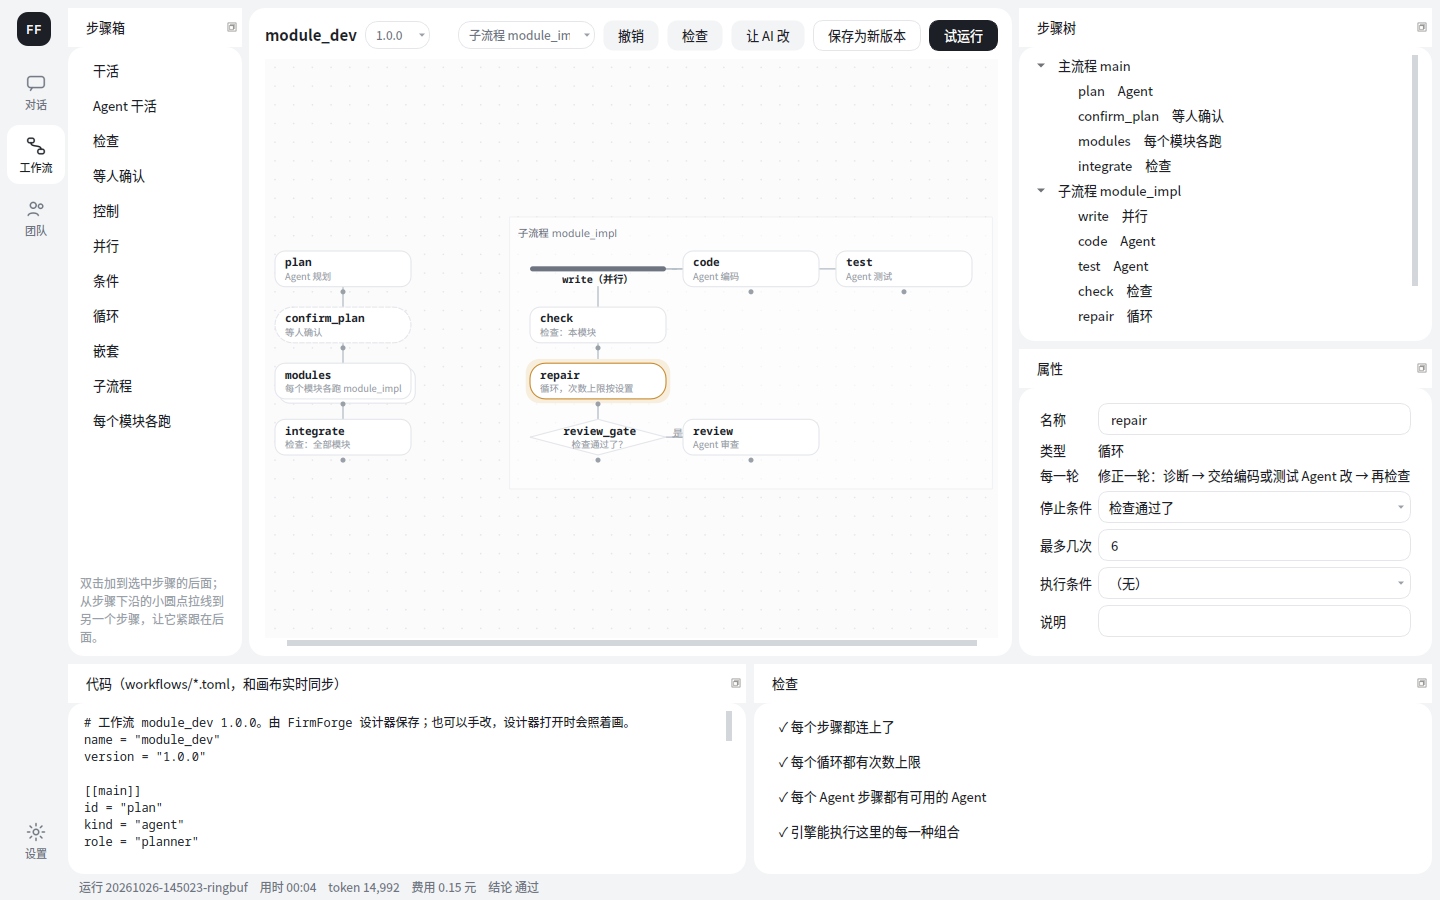
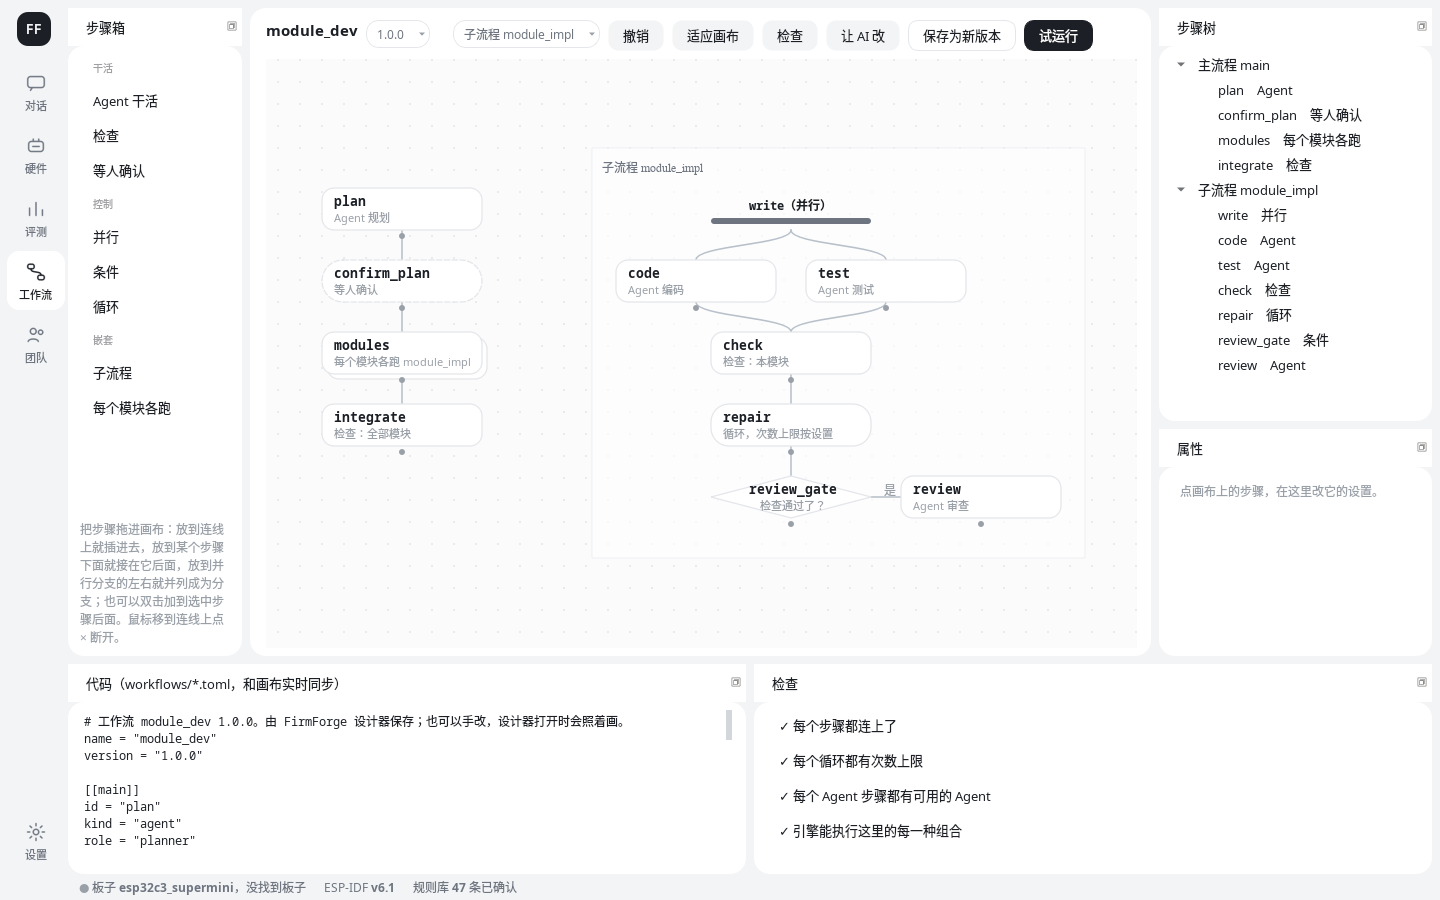
设计器：并行画成"分叉再汇合"，分支在并行下面并排
- 流程图排布：并行的分支排在下一行、以并行为中线并排，再汇合到下一步（主流流程图的画法）；条件的分支仍在右侧
- 分支 → 下一步画汇合线；拖到汇合线上 = 并行做完以后的下一步；汇合线不能单独断开
- 拖到分支步骤的左右两边 = 并列成为分支
- 并行的名字放在横条上方，分叉线不再压字；子流程框按实际宽度排在主流程右边
- 更新排布和拖拽的测试，更新设计器截图

diff --git a/src/firmforge/gui/graph.py b/src/firmforge/gui/graph.py
@@ -305,7 +305,7 @@ class StepItem(QGraphicsObject):
         elif s.kind == "parallel":
             p.setPen(Qt.NoPen)
             p.setBrush(QColor(c["fail"] if s.detached else c["ink2"]))
-            p.drawRoundedRect(QRectF(0, STEP_H / 2 - 3, STEP_W, 6), 3, 3)
+            p.drawRoundedRect(QRectF(0, STEP_H - 12, STEP_W, 6), 3, 3)     # 横条在下、名字在上：分叉线从横条下面出去，不压字
         else:
             if s.kind == "foreach":
                 p.drawRoundedRect(QRectF(5, 5, STEP_W, STEP_H), radius, radius)
@@ -314,7 +314,7 @@ class StepItem(QGraphicsObject):
         p.setPen(QColor(c["ink"]))
         if s.kind == "parallel":
             p.setFont(_mono(9, True))
-            p.drawText(QRectF(0, STEP_H / 2 + 4, STEP_W, 16), Qt.AlignCenter, f"{s.id}（并行）" + ("，没连上" if s.detached else ""))
+            p.drawText(QRectF(0, 8, STEP_W, 18), Qt.AlignCenter, f"{s.id}（并行）" + ("，没连上" if s.detached else ""))
             return
         p.setFont(_mono(9.5, True))
         p.drawText(QRectF(12, 3, STEP_W - 20, 20), Qt.AlignLeft | Qt.AlignVCenter if s.kind != "condition" else Qt.AlignCenter, s.id)
@@ -373,6 +373,8 @@ class EdgeItem(QGraphicsPathItem):
     def __init__(self, a: str, b: str, path: QPainterPath, canvas: "FlowCanvas", deletable: bool):
         super().__init__(path)
         self.a, self.b, self.canvas, self.deletable = a, b, canvas, deletable
+        self.branch = False                 # 并行、条件到分支的线：可以断开，不能把步骤插进去
+        self.logical = (a, b)               # 汇合线（分支 → 下一步）画的是分支到下一步，含义是"并行 → 下一步"
         self.hot = False
         self.setAcceptHoverEvents(deletable)
         self._style()
@@ -459,29 +461,36 @@ class FlowCanvas(DotGridView):
         self.flow_of.clear()
         self.regions.clear()
         c = T()
-        groups = [("main", list(wf.main), 0.0)]
+        groups = [("main", list(wf.main))]
         sub = subflow or next(iter(wf.subflows), None)
         if sub:
-            groups.append((sub, list(wf.subflows[sub]), 300.0))
-        for name, steps, x0 in groups:
+            groups.append((sub, list(wf.subflows[sub])))
+        right = 0.0                                            # 已经画好的流程的右边界，下一个流程排在它右边
+        for name, steps in groups:
             linked = [s for s in steps if not s.detached]
-            pos = flow_positions(linked, x0=x0, y0=40)
+            kw = dict(y0=40, w=STEP_W, h=STEP_H, gap=30)
+            x0 = 0.0
+            if name != "main":                                 # 先排一遍量出左边界，再整体挪到主流程右边
+                draft = flow_positions(linked, x0=0.0, **kw)
+                x0 = right + 110 - min([p[0] for p in draft.values()] or [0.0])
+            pos = flow_positions(linked, x0=x0, **kw)
+            ys = [p[1] for p in pos.values()] or [40]
+            xs = [p[0] for p in pos.values()] or [x0]
+            frame = QRectF(min(xs) - 24, 0, max(xs) - min(xs) + STEP_W + 48, max(ys) + STEP_H + 40)
+            right = max(right, frame.right())
+            self.regions.append((name, frame))
             n = 0
             for s in steps:
                 if s.detached:                                 # 没给位置就放到流程旁边（主流程左边、子流程右边）
-                    pos[s.id] = s.pos or ((-STEP_W - 80 if name == "main" else x0 + 2 * STEP_W + 120), 40 + 64 * n)
+                    pos[s.id] = s.pos or ((-STEP_W - 80 if name == "main" else frame.right() + 40), 40 + 64 * n)
                     n += 1
-            ys = [p[1] for p in pos.values()] or [40]
-            xs = [p[0] for p in pos.values()] or [x0]
-            frame = QRectF(x0 - 24, 0, max(xs) - x0 + STEP_W + 48, max(ys) + STEP_H + 40)
-            self.regions.append((name, frame))
             if name != "main":
                 box = sc.addRect(frame, QPen(QColor(c["line"]), 1), QBrush(QColor(c["surface"])))
                 box.setOpacity(0.6)
                 box.setZValue(-2)
                 t = sc.addText(f"子流程 {name}")
                 t.setDefaultTextColor(QColor(c["ink2"]))
-                t.setPos(x0 - 18, 6)
+                t.setPos(frame.left() + 6, 6)
             prev = None
             refd = {r for s in linked for r in (*s.branches, *s.then, *s.otherwise)}
             for s in steps:
@@ -495,11 +504,17 @@ class FlowCanvas(DotGridView):
                 sc.addItem(it)
                 self.items_by_id[s.id] = it
                 self.flow_of[s.id] = name
+            by_id = {s.id: s for s in linked}
             for s in linked:
                 if s.id in refd:
                     continue
                 if prev is not None:
-                    self._edge(prev, s.id)
+                    forks = [k for k in by_id[prev].branches if k in self.items_by_id]
+                    if forks:                                  # 上一步是并行：各分支汇合到这一步
+                        for k in forks:
+                            self._edge(k, s.id, join=(prev, s.id))
+                    else:
+                        self._edge(prev, s.id)
                 for k in (*s.branches, *s.then, *s.otherwise):
                     self._edge(s.id, k, label="是" if k in s.then else ("否" if k in s.otherwise else ""), branch=True)
                 prev = s.id
@@ -522,12 +537,15 @@ class FlowCanvas(DotGridView):
             return path
         return curve(pa, pb)
 
-    def _edge(self, a: str, b: str, label: str = "", branch: bool = False) -> None:
+    def _edge(self, a: str, b: str, label: str = "", branch: bool = False, join: tuple[str, str] | None = None) -> None:
         ia, ib = self.items_by_id.get(a), self.items_by_id.get(b)
         if ia is None or ib is None:
             return
-        item = EdgeItem(a, b, self._edge_path(ia, ib), self, self.editable)
-        item.branch = branch                    # 并行、条件的分支线：可以断开，但不能把步骤插进去
+        # 汇合线不能单独断开（它不是一条独立的连接，断开分支要点"并行 → 分支"那条线）
+        item = EdgeItem(a, b, self._edge_path(ia, ib), self, self.editable and join is None)
+        item.branch = branch
+        if join is not None:
+            item.logical = join
         item.setZValue(-1)
         self.scene().addItem(item)
         self.edges.append(item)
@@ -543,8 +561,8 @@ class FlowCanvas(DotGridView):
         """可以吸附的地方：同一个流程里已连上的步骤（接到它后面）和顺序连线（插进去）。"""
         steps = {sid: (it.pos().x(), it.pos().y()) for sid, it in self.items_by_id.items()
                  if not it.step.detached and (flow is None or self.flow_of[sid] == flow) and sid != exclude}
-        edges = [(e.a, e.b, (e.mid().x(), e.mid().y())) for e in self.edges
-                 if not e.branch and e.a in steps and e.b in steps and exclude not in (e.a, e.b)]
+        edges = [(*e.logical, (e.mid().x(), e.mid().y())) for e in self.edges
+                 if not e.branch and e.a in steps and e.b in steps and exclude not in (e.a, e.b, *e.logical)]
         self._branch_of = {r: sid for sid in steps for r in (*self.items_by_id[sid].step.branches,
                                                               *self.items_by_id[sid].step.then,
                                                               *self.items_by_id[sid].step.otherwise) if r in steps}
@@ -577,9 +595,10 @@ class FlowCanvas(DotGridView):
         kind, a, b = target
         anchor = self.items_by_id[b if kind == "branch" else a]
         side = kind == "branch" or anchor.step.kind in ("parallel", "condition")
-        if side and top.y() < anchor.pos().y() + STEP_H:          # 并列：从旁边那一步的右侧连过来
-            start = anchor.pos() + QPointF(STEP_W, STEP_H / 2)
-            end = top + QPointF(-STEP_W / 2, STEP_H / 2)
+        if side and top.y() < anchor.pos().y() + STEP_H:          # 并列：从旁边那一步的侧面连过来
+            left = top.x() < anchor.pos().x() + STEP_W / 2
+            start = anchor.pos() + QPointF(0 if left else STEP_W, STEP_H / 2)
+            end = top + QPointF(STEP_W / 2 if left else -STEP_W / 2, STEP_H / 2)
             path = QPainterPath(start)
             path.cubicTo(QPointF(start.x() + 20, start.y()), QPointF(end.x() - 20, end.y()), end)
         else:
@@ -591,7 +610,7 @@ class FlowCanvas(DotGridView):
         self._preview.setZValue(5)
         if kind == "edge":
             for e in self.edges:
-                if (e.a, e.b) == (a, b):
+                if e.logical == (a, b) and not e.branch:
                     e.hot = True
                     e._style()
                     e.update()

diff --git a/src/firmforge/gui/layout.py b/src/firmforge/gui/layout.py
@@ -195,7 +195,9 @@ class RunView:
 
 def flow_positions(steps: list, *, x0: float = 0, y0: float = 0, w: float = 150, h: float = 40,
                    gap: float = 26) -> dict[str, tuple[float, float]]:
-    """流程图：顶层步骤从上到下排一列；并行分支、条件的"是 / 否"分支排在右侧同一行。用户拖过的位置（pos）优先。"""
+    """流程图：顶层步骤从上到下排一列。
+    并行画成"分叉再汇合"（主流流程图的画法）：各分支在并行的下一行并排、整体居中，下一步再排在分支下面；
+    条件的"是 / 否"分支排在右侧同一行，主干继续往下。用户拖过的位置（pos）优先。"""
     pos: dict[str, tuple[float, float]] = {}
     referenced = {r for s in steps for r in (*s.branches, *s.then, *s.otherwise)}
     by_id = {s.id: s for s in steps}
@@ -205,12 +207,17 @@ def flow_positions(steps: list, *, x0: float = 0, y0: float = 0, w: float = 150,
             continue
         pos[s.id] = s.pos or (x0, y)
         y = pos[s.id][1] + h + gap
-        kids = list(s.branches) or [*s.then, *s.otherwise]
-        if kids:
-            for i, k in enumerate(kids):
-                ks = by_id.get(k)
-                if ks is not None:
-                    pos[k] = ks.pos or (x0 + (i + 1) * (w + 30), pos[s.id][1])
+        px, py = pos[s.id]
+        forks = [k for k in s.branches if k in by_id]
+        if forks:                                 # 并行：分支在下一行并排，以并行为中线
+            total = len(forks) * w + (len(forks) - 1) * 30
+            left = px + w / 2 - total / 2
+            for i, k in enumerate(forks):
+                pos[k] = by_id[k].pos or (left + i * (w + 30), y)
+            y += h + gap
+        for i, k in enumerate([*s.then, *s.otherwise]):
+            if k in by_id:
+                pos[k] = by_id[k].pos or (px + (i + 1) * (w + 30), py)
     for s in steps:                               # 引用了不存在的步骤等情况：兜底放在最下面
         if s.id not in pos:
             pos[s.id] = s.pos or (x0, y)
@@ -238,7 +245,8 @@ def snap_target(top_center: tuple[float, float], steps: dict[str, tuple[float, f
     返回 ("edge", 上一步, 下一步)：插进这条线；("after", 步骤, "")：接到这个步骤后面；
     ("branch", 并行或条件, 旁边的分支步骤)：和旁边那个步骤并列，成为同一个并行 / 条件的分支；None：放在空白处、不连。
     branch_of：分支步骤 → 引用它的并行或条件；parents：并行、条件步骤。
-    分支里的步骤没有先后（引擎里每个分支就是一个步骤），所以拖到分支步骤的下面或右边，都是"并列成为分支"。
+    分支里的步骤没有先后（引擎里每个分支就是一个步骤），所以拖到分支步骤的左右两边是"并列成为分支"；
+    分支下面是汇合线，拖到汇合线上是"并行做完以后的下一步"（汇合线的逻辑端点是 并行 → 下一步）。
     连线优先（它更具体）；都不近就不吸附。被拖的步骤自己和连到它的线不算。
     """
     branch_of, parents = branch_of or {}, parents or set()
@@ -262,12 +270,14 @@ def snap_target(top_center: tuple[float, float], steps: dict[str, tuple[float, f
             d = (dx ** 2 + dy ** 2) ** 0.5
             if d <= best_d:
                 best, best_d = ("after", sid, ""), d
-        if sid in branch_of or sid in parents:           # 右边：和它并列
-            gap, row = (x - w / 2) - (sx + w), abs(y - sy)
-            if -w * 0.25 <= gap <= SNAP_SIDE and row <= h:
-                d = (max(gap, 0) ** 2 + row ** 2) ** 0.5
-                if d <= best_d:
-                    best, best_d = ("after", sid, ""), d
+        if sid in branch_of or sid in parents:           # 右边（分支步骤的左边也算）：和它并列
+            row = abs(y - sy)
+            gaps = [(x - w / 2) - (sx + w)] + ([sx - (x + w / 2)] if sid in branch_of else [])
+            for gap in gaps:
+                if -w * 0.25 <= gap <= SNAP_SIDE and row <= h:
+                    d = (max(gap, 0) ** 2 + row ** 2) ** 0.5
+                    if d <= best_d:
+                        best, best_d = ("after", sid, ""), d
     if best is not None and best[1] in branch_of:
         return ("branch", branch_of[best[1]], best[1])
     return best

diff --git a/tests/test_gui.py b/tests/test_gui.py
@@ -34,14 +34,22 @@ class LayoutTest(unittest.TestCase):
         self.assertAlmostEqual(pos["a"][0] + pos["b"][0] + 100, 0)        # 第 0 层左右对称
         self.assertGreater(pos["c"][1], pos["a"][1])
 
-    def test_flow_positions_branches_to_the_right(self):
+    def test_flow_positions_parallel_forks_below(self):
+        # 并行画成"分叉再汇合"：分支在并行的下一行并排、以并行为中线，下一步排在分支下面；条件的分支在右侧同一行
         wf = load_workflow()
         steps = list(wf.subflows["module_impl"])
-        pos = flow_positions(steps)
+        pos = flow_positions(steps, w=160, h=42, gap=30)
         write = next(s for s in steps if s.kind == "parallel")
-        for b in write.branches:
-            self.assertEqual(pos[b][1], pos[write.id][1])
-            self.assertGreater(pos[b][0], pos[write.id][0])
+        ys = {pos[b][1] for b in write.branches}
+        self.assertEqual(len(ys), 1)
+        self.assertGreater(ys.pop(), pos[write.id][1])
+        xs = [pos[b][0] for b in write.branches]
+        self.assertAlmostEqual((min(xs) + max(xs)) / 2, pos[write.id][0])           # 整体居中
+        self.assertGreater(pos["check"][1], pos[write.branches[0]][1])
+        self.assertEqual(pos["check"][0], pos[write.id][0])
+        gate = next(s for s in steps if s.kind == "condition")
+        self.assertEqual(pos[gate.then[0]][1], pos[gate.id][1])
+        self.assertGreater(pos[gate.then[0]][0], pos[gate.id][0])
 
     def test_run_view_follows_events(self):
         v = RunView()
@@ -354,7 +362,7 @@ class GuiSmokeTest(unittest.TestCase):
 
     def test_designer_join_parallel_branch(self):
         # 负责人发现的 bug：想把 test 接到 code 旁边（同一个并行的分支），却被吸到主干上。
-        # 拖到分支步骤的右边、下面，或从分支步骤拉线，都是并列成为同一个并行的分支
+        # 拖到分支步骤的左右两边，或从分支步骤拉线，都是并列成为同一个并行的分支；拖到汇合线上是并行之后的下一步
         from PySide6.QtCore import QPoint, QPointF, Qt
         from PySide6.QtTest import QTest
         from firmforge.gui.graph import STEP_H, STEP_W
@@ -381,8 +389,15 @@ class GuiSmokeTest(unittest.TestCase):
         drag(pt("test", 30, 12), pt("code", STEP_W + 55, 12))                  # 右边
         self.assertEqual(branches(), ("code", "test"))
         away()
-        drag(pt("test", 30, 12), pt("code", 40, STEP_H + 42))                  # 下面
-        self.assertEqual(branches(), ("code", "test"))
+        drag(pt("test", 30, 12), pt("code", -STEP_W - 25 + 30, 12))            # 左边也一样
+        self.assertEqual(set(branches()), {"code", "test"})
+        away()
+        e = next(e for e in cv.edges if e.logical == ("write", "check"))       # 汇合线上：并行做完以后的下一步
+        drag(pt("test", 30, 12), cv.mapFromScene(e.mid()) + QPoint(30 - STEP_W // 2, 12))
+        self.assertEqual(branches(), ("code",))
+        self.assertEqual([s.id for s in d._steps("module_impl") if s.id in ("write", "test", "check")],
+                         ["write", "test", "check"])
+        self.assertFalse(d._get("test").detached)
         away()
         drag(pt("code", STEP_W / 2, STEP_H + 6), pt("test", STEP_W / 2, STEP_H / 2))   # 从 code 拉线
         self.assertEqual(branches(), ("code", "test"))

diff --git a/src/firmforge/gui/designer_page.py b/src/firmforge/gui/designer_page.py
@@ -153,7 +153,7 @@ class DesignerPage(QMainWindow):
                 it.setData(Qt.UserRole, kind)
                 self.palette.addItem(it)
         self.palette.itemDoubleClicked.connect(lambda it: it.data(Qt.UserRole) and self.add_step(it.data(Qt.UserRole)))
-        tip = label("把步骤拖进画布：放到连线上就插进去，放到某个步骤下面就接在它后面，放到并行分支的旁边就并列成为分支；"
+        tip = label("把步骤拖进画布：放到连线上就插进去，放到某个步骤下面就接在它后面，放到并行分支的左右就并列成为分支；"
                     "也可以双击加到选中步骤后面。鼠标移到连线上点 × 断开。", "Faint", wrap=True)
         box = QWidget()
         bl = QVBoxLayout(box)
